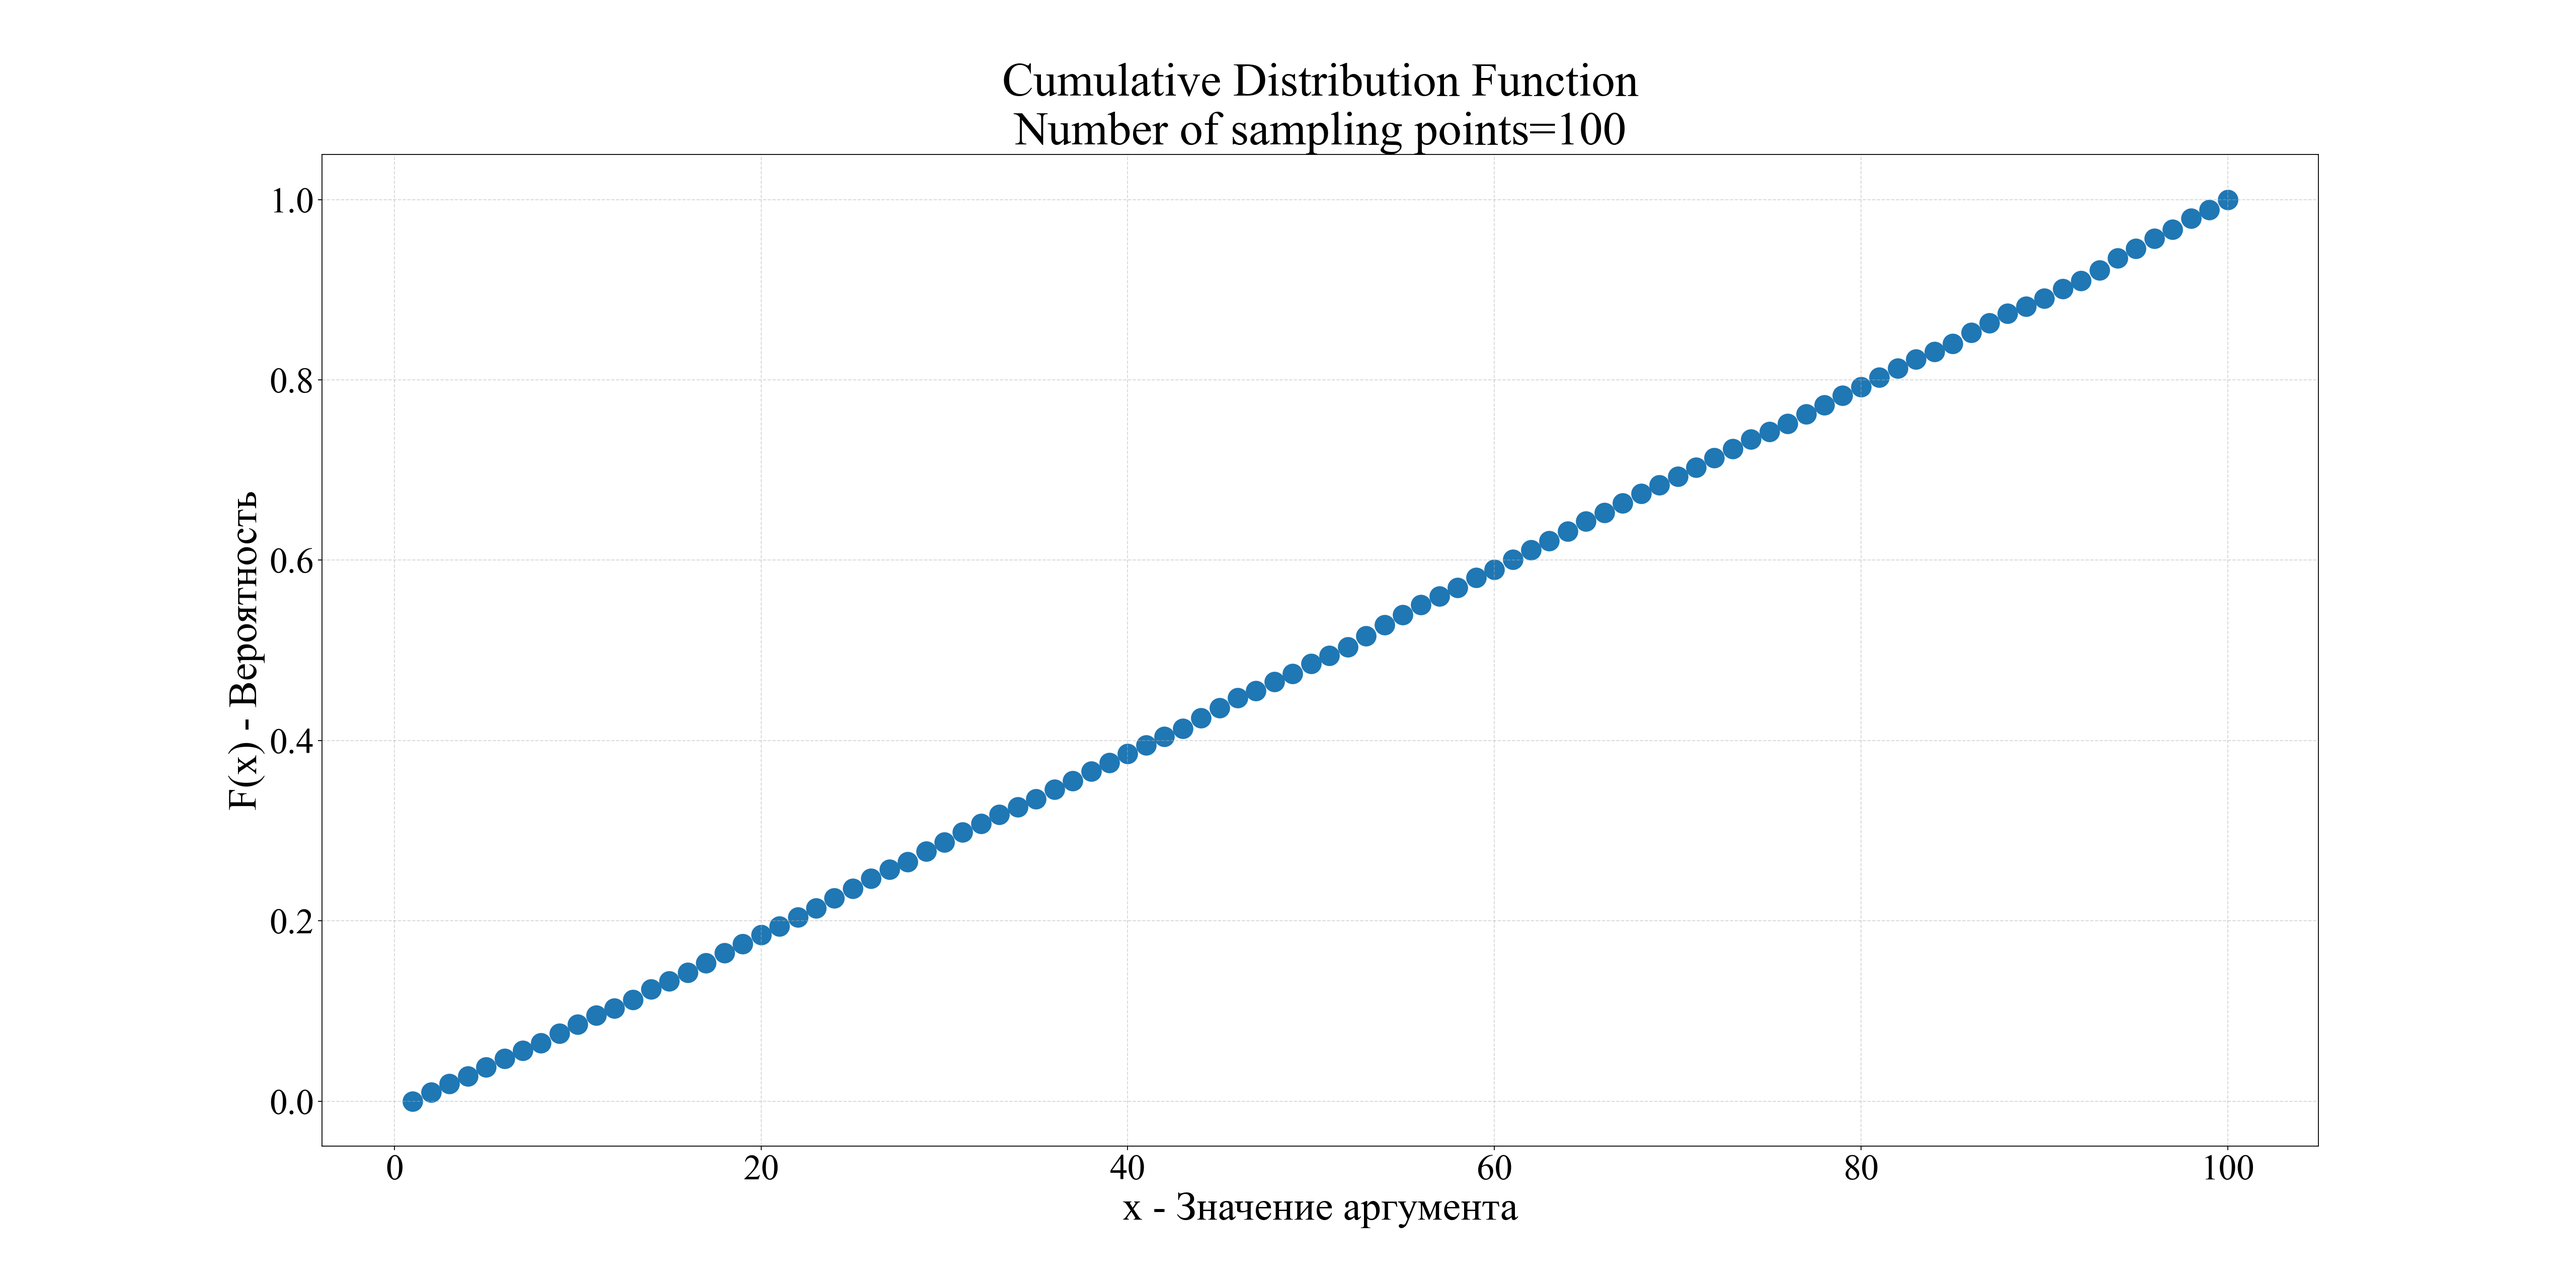
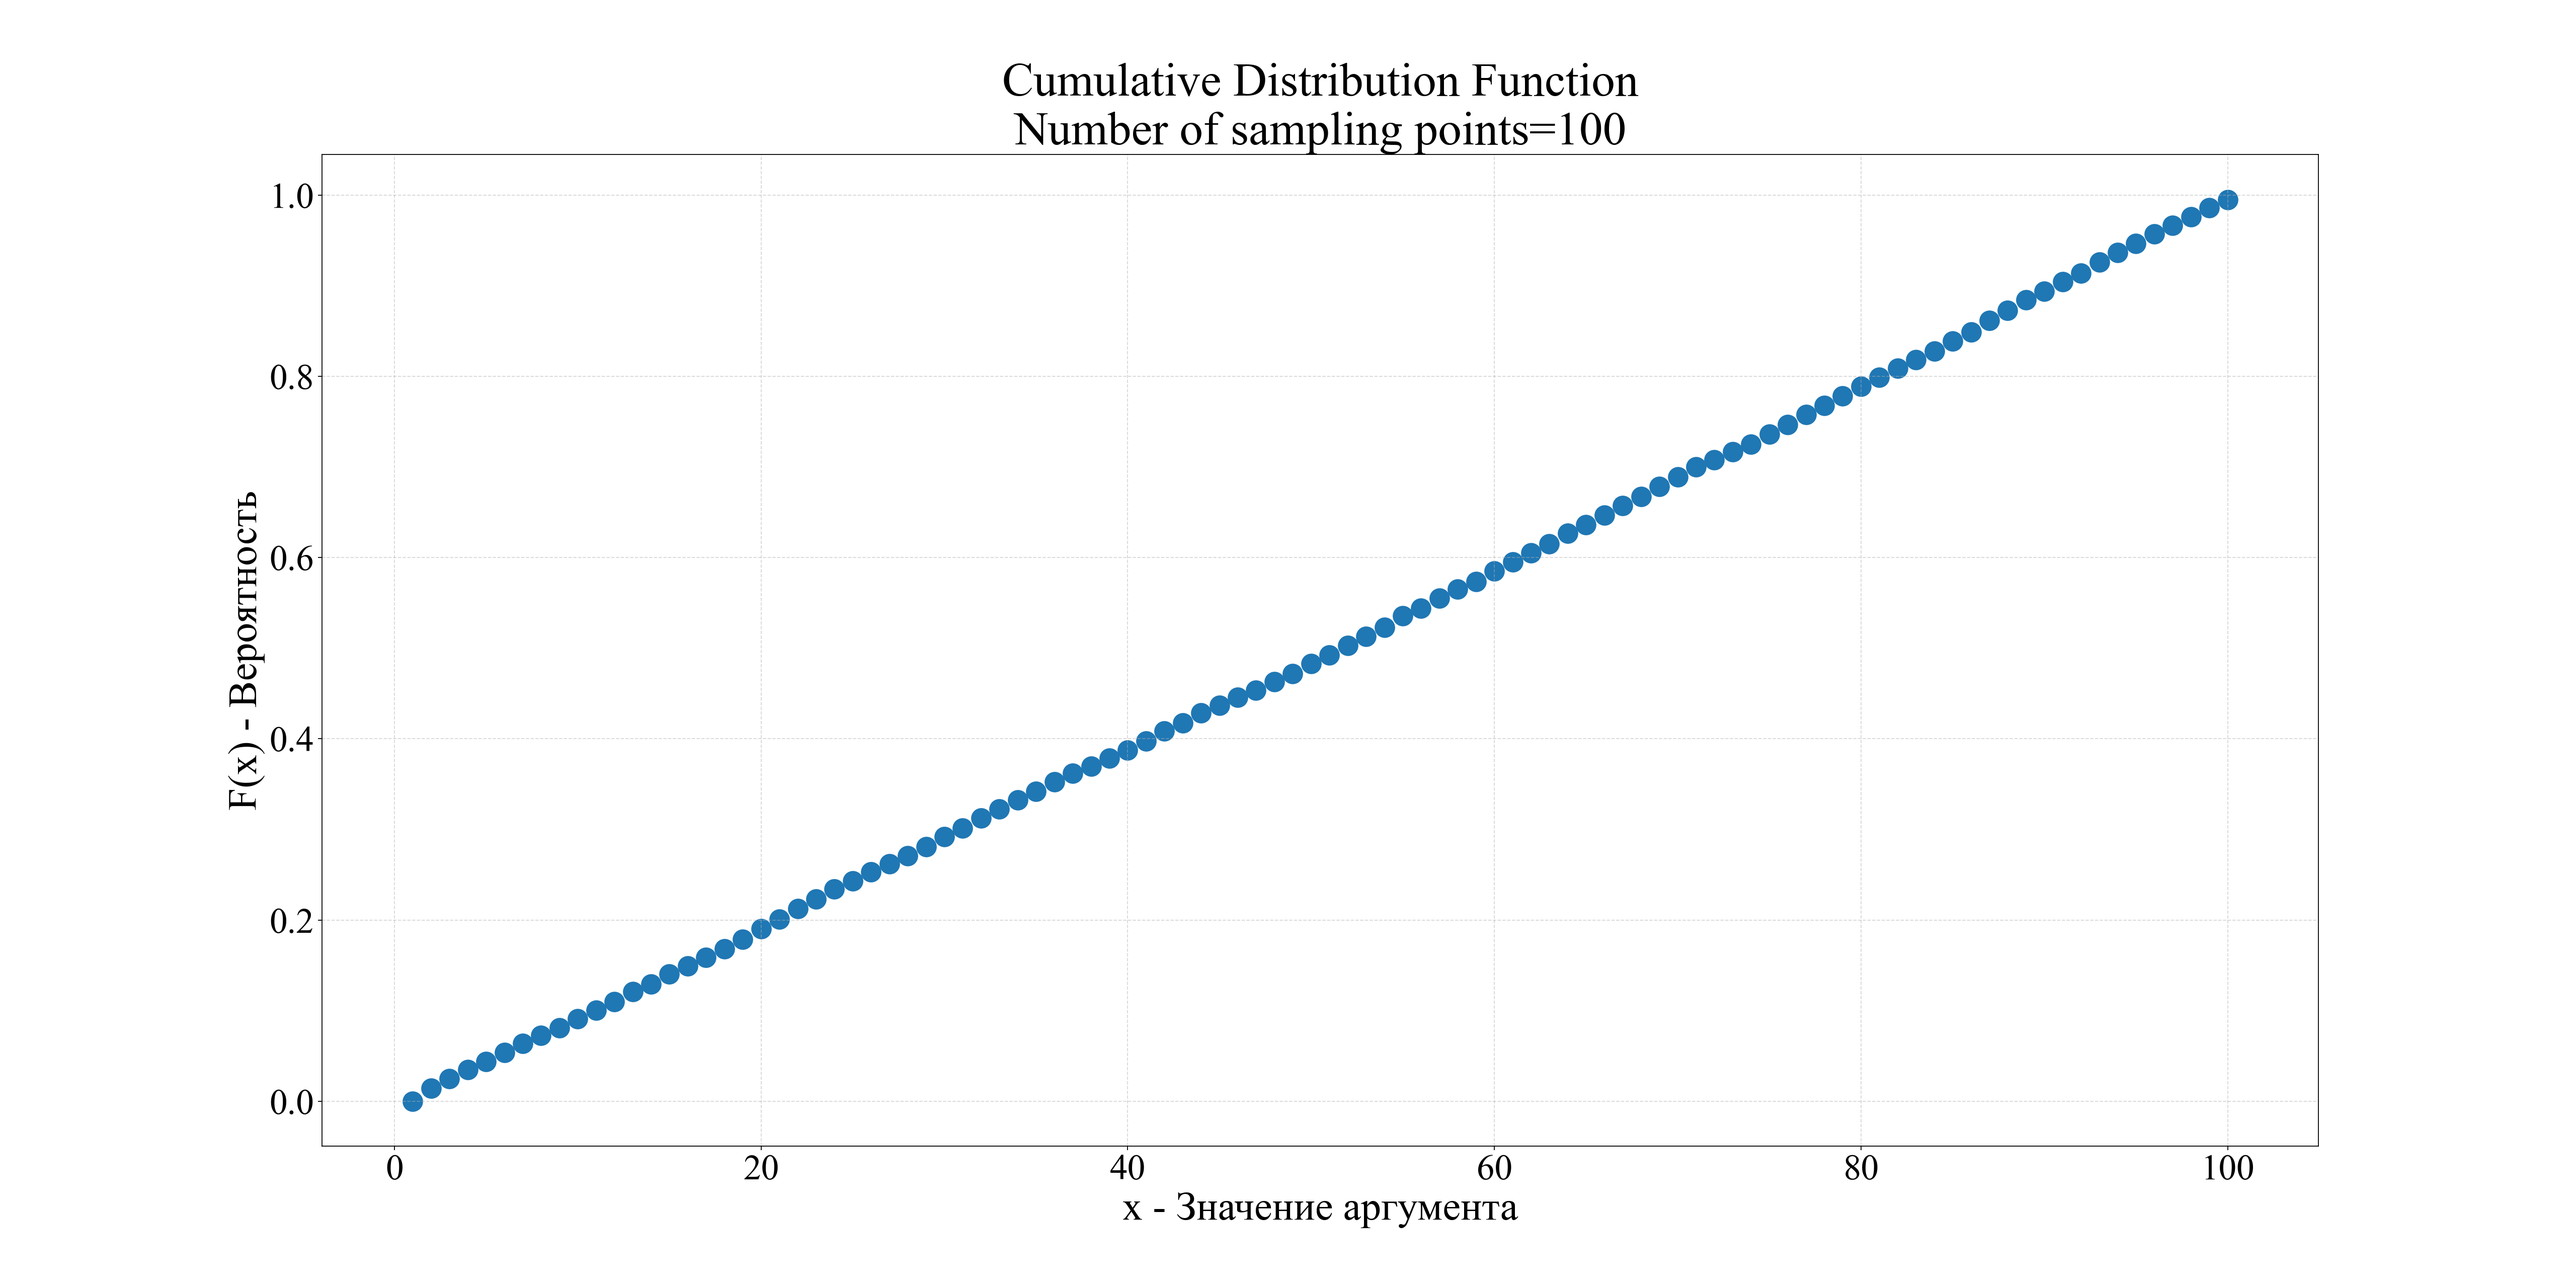
增加 标准分布算法

diff --git a/002 - lab2/main.py b/002 - lab2/main.py
@@ -18,7 +18,7 @@ def uniform_distribution():
     RU：Равномерное распределение(2.1)
     :return: None
     """
-    arr_uniform = np.random.uniform(low=1, high=100, size=10000)
+    arr_uniform = irandom.irnuni(low=1, high=100, size=10000)
     M = arr_uniform.mean()
     D = arr_uniform.var()
 
@@ -34,7 +34,7 @@ def uniform_distribution():
                        x_tick_max=100,
                        save_path='./result/【2.1】Uniform distribution/cdf_' + arr_cdf.size.__str__() + '.png')
 
-    cut_num = 101
+    cut_num = 100
     arr_pdf = st_method.get_pdf(arr_uniform, cut_num=cut_num)
     st_method.plot_pdf(pdf_ndarry=arr_pdf,
                        kind='scatter',
@@ -166,29 +166,29 @@ def poisson_distribution(arr_poisson: np.ndarray, img_save_fold: str):
 
 if __name__ == '__main__':
     # 【2.1】РАВНОМЕРНОЕ РАСПРЕДЕЛЕНИЕ (дискретное)
-    # uniform_distribution()
+    uniform_distribution()
 
     # 【2.2】БИНОМИАЛЬНОЕ РАСПРЕДЕЛЕНИЕ
     binomial_distribution()
 
     # 【2.3.1】ГЕОМЕТРИЧЕСКОЕ РАСПРЕДЕЛЕНИЕ (Алгоритм 1)
-    # geometric_distribution(arr_geometric=irandom.irngeo_1(p=0.5, size=10000),
-    #                        img_save_fold='./result/【2.3.1】Geometric distribution/')
+    geometric_distribution(arr_geometric=irandom.irngeo_1(p=0.5, size=10000),
+                           img_save_fold='./result/【2.3.1】Geometric distribution/')
 
     # 【2.3.2】ГЕОМЕТРИЧЕСКОЕ РАСПРЕДЕЛЕНИЕ (Алгоритм 2)
-    # geometric_distribution(arr_geometric=irandom.irngeo_2(p=0.5, size=10000),
-    #                        img_save_fold='./result/【2.3.2】Geometric distribution/')
+    geometric_distribution(arr_geometric=irandom.irngeo_2(p=0.5, size=10000),
+                           img_save_fold='./result/【2.3.2】Geometric distribution/')
 
     # 【2.3.3】ГЕОМЕТРИЧЕСКОЕ РАСПРЕДЕЛЕНИЕ (Алгоритм 3)
-    # geometric_distribution(arr_geometric=irandom.irngeo_3(p=0.5, size=10000),
-    #                        img_save_fold='./result/【2.3.3】Geometric distribution/')
+    geometric_distribution(arr_geometric=irandom.irngeo_3(p=0.5, size=10000),
+                           img_save_fold='./result/【2.3.3】Geometric distribution/')
 
     # 【2.4.1】РАСПРЕДЕЛЕНИЕ ПУАССОНА (Алгоритм 1)
-    # poisson_distribution(arr_poisson=irandom.irnpoi(mu=10, size=10000),
-    #                      img_save_fold='./result/【2.4.1】Poisson distribution/')
+    poisson_distribution(arr_poisson=irandom.irnpoi(mu=10, size=10000),
+                         img_save_fold='./result/【2.4.1】Poisson distribution/')
 
     # 【2.4.2】РАСПРЕДЕЛЕНИЕ ПУАССОНА (Алгоритм 2)
-    # poisson_distribution(arr_poisson=irandom.irnpsn(mu=10, size=10000),
-    #                      img_save_fold='./result/【2.4.2】Poisson distribution/')
+    poisson_distribution(arr_poisson=irandom.irnpsn(mu=10, size=10000),
+                         img_save_fold='./result/【2.4.2】Poisson distribution/')
 
     pass

diff --git a/002 - lab2/irandom.py b/002 - lab2/irandom.py
@@ -10,6 +10,28 @@
 import numpy as np
 import math
 
+
+def irnuni(low: float, high: int, size: int) -> np.ndarray:
+    """
+    标准分布
+    :param low: 最小值
+    :param high: 最大值
+    :param size: 数组大小
+    :return: 具有标准分布的 numpy.ndarry
+    """
+    if low < 0 or high < 0 or low > high or size <= 0:
+        raise ValueError
+
+    arr_irnuni = []
+
+    for i in range(size):
+        i_uniform = np.random.uniform(low=0, high=1, size=1)
+        var = np.round((high - low + 1) * i_uniform + low)
+        arr_irnuni.append(var)
+
+    return np.array(arr_irnuni)
+
+
 def irnbnl(n: int, p: float, size: int) -> np.ndarray:
     """
     二项分布
@@ -90,6 +112,7 @@ def irngeo_2(p: float, size: int) -> np.ndarray:
         arr_irngeo.append(j + 1)
 
     return np.array(arr_irngeo)
+
 
 def irngeo_3(p: float, size: int) -> np.ndarray:
     """
